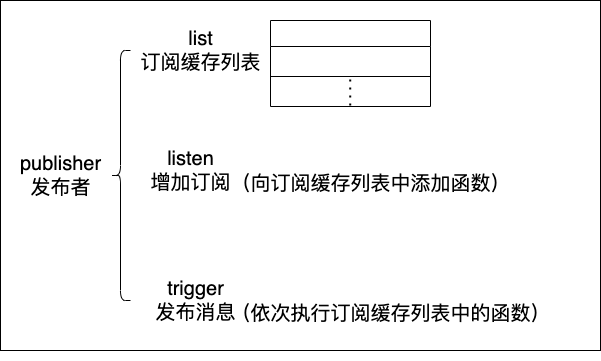
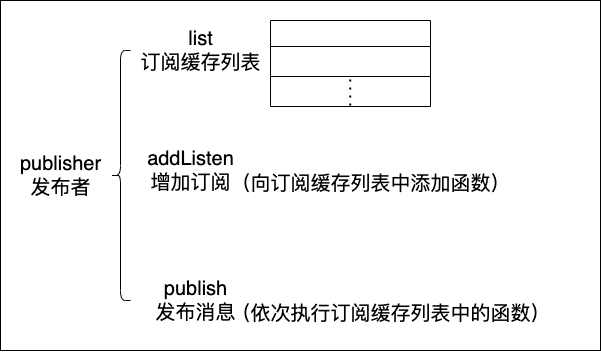
手写003

Changed region(s): [[0.2696, 0.7618, 0.3894, 0.8532], [0.2396, 0.3961, 0.3894, 0.4571]]

diff --git a/js/1-手写/003-发布订阅/01-简单实现.js b/js/1-手写/003-发布订阅/01-简单实现.js
@@ -4,34 +4,53 @@
 //     trigger: function, // 发布消息（同时执行回调函数）
 // }
 
-// 定义发布者
-let shoeObj = {}
+// // 定义发布者
+// let shoeObj = {}
 
-// 缓存列表 存放订阅者的回调函数
-shoeObj.list = []
+// // 缓存列表 存放订阅者的回调函数
+// shoeObj.list = []
 
-// 增加订阅者
-shoeObj.listen = function(fn) {
-    shoeObj.list.push(fn)
+// // 增加订阅者
+// shoeObj.listen = function(fn) {
+//     shoeObj.list.push(fn)
+// }
+
+// // 发布消息
+// shoeObj.trigger = function() {
+//     for(let i = 0, fn; fn = this.list[i]; i++) {
+//         // console.log(arguments)
+//         fn.apply(this, arguments)
+//     }
+// }
+
+// // person1订阅
+// shoeObj.listen(function(color, size){
+//     console.log("person-111-颜色:", color, "尺码:", size)
+// })
+// // person2订阅
+// shoeObj.listen(function(color, size){
+//     console.log("person-222-颜色:", color, "尺码:", size)
+// })
+
+// shoeObj.trigger("黑色", 40)
+
+// 发布者
+let publisher = {}
+// 订阅缓存列表
+publisher.list = []
+// 添加订阅
+publisher.addListen = function(fn) {
+    publisher.list.push(fn)
 }
-
-// 发布消息
-shoeObj.trigger = function() {
-    for(let i = 0, fn; fn = this.list[i]; i++) {
-        // console.log(arguments)
-        fn.apply(this, arguments)
+// 发布
+publisher.publish = function(...arg) {
+    for(let i=0; i<publisher.list.length; i++) {
+        publisher.list[i](arg)
     }
 }
 
-// person1订阅
-shoeObj.listen(function(color, size){
-    console.log("person-111-颜色:", color, "尺码:", size)
+// 订阅
+publisher.addListen((param) => {
+    console.log('添加的订阅回调', param)
 })
-// person2订阅
-shoeObj.listen(function(color, size){
-    console.log("person-222-颜色:", color, "尺码:", size)
-})
-
-shoeObj.trigger("黑色", 40)
-
-
+publisher.publish('哈哈哈', '嘿嘿嘿', '参数三')
